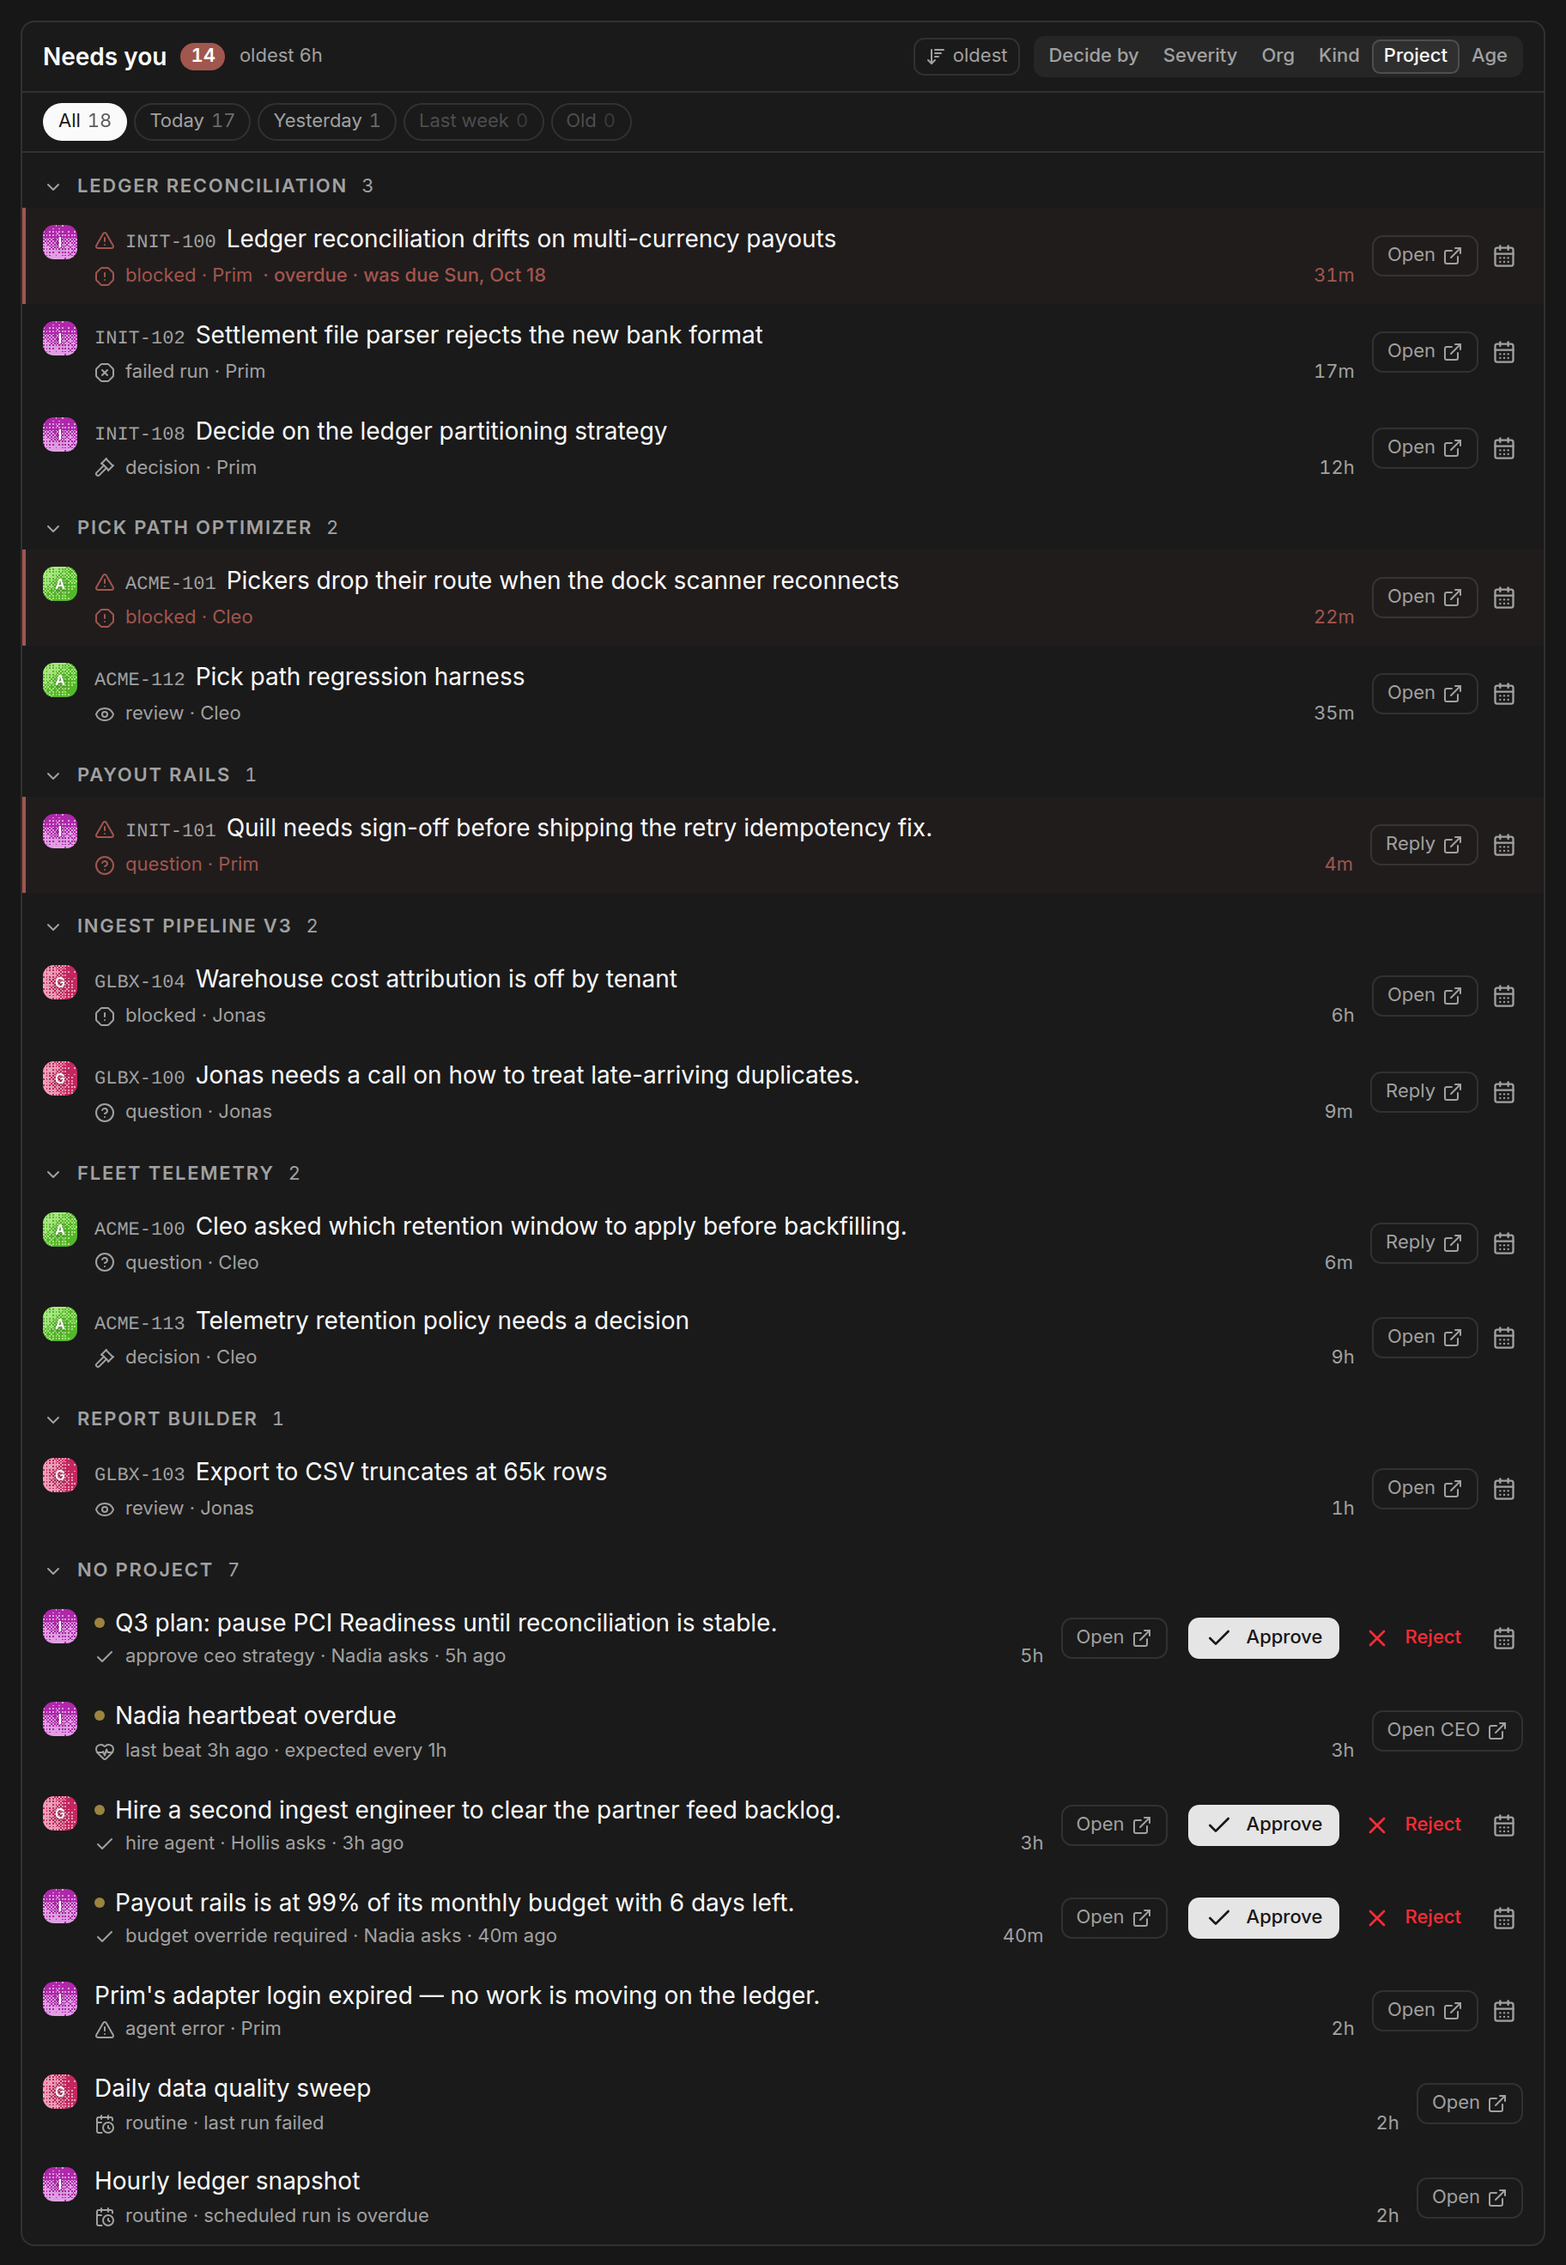
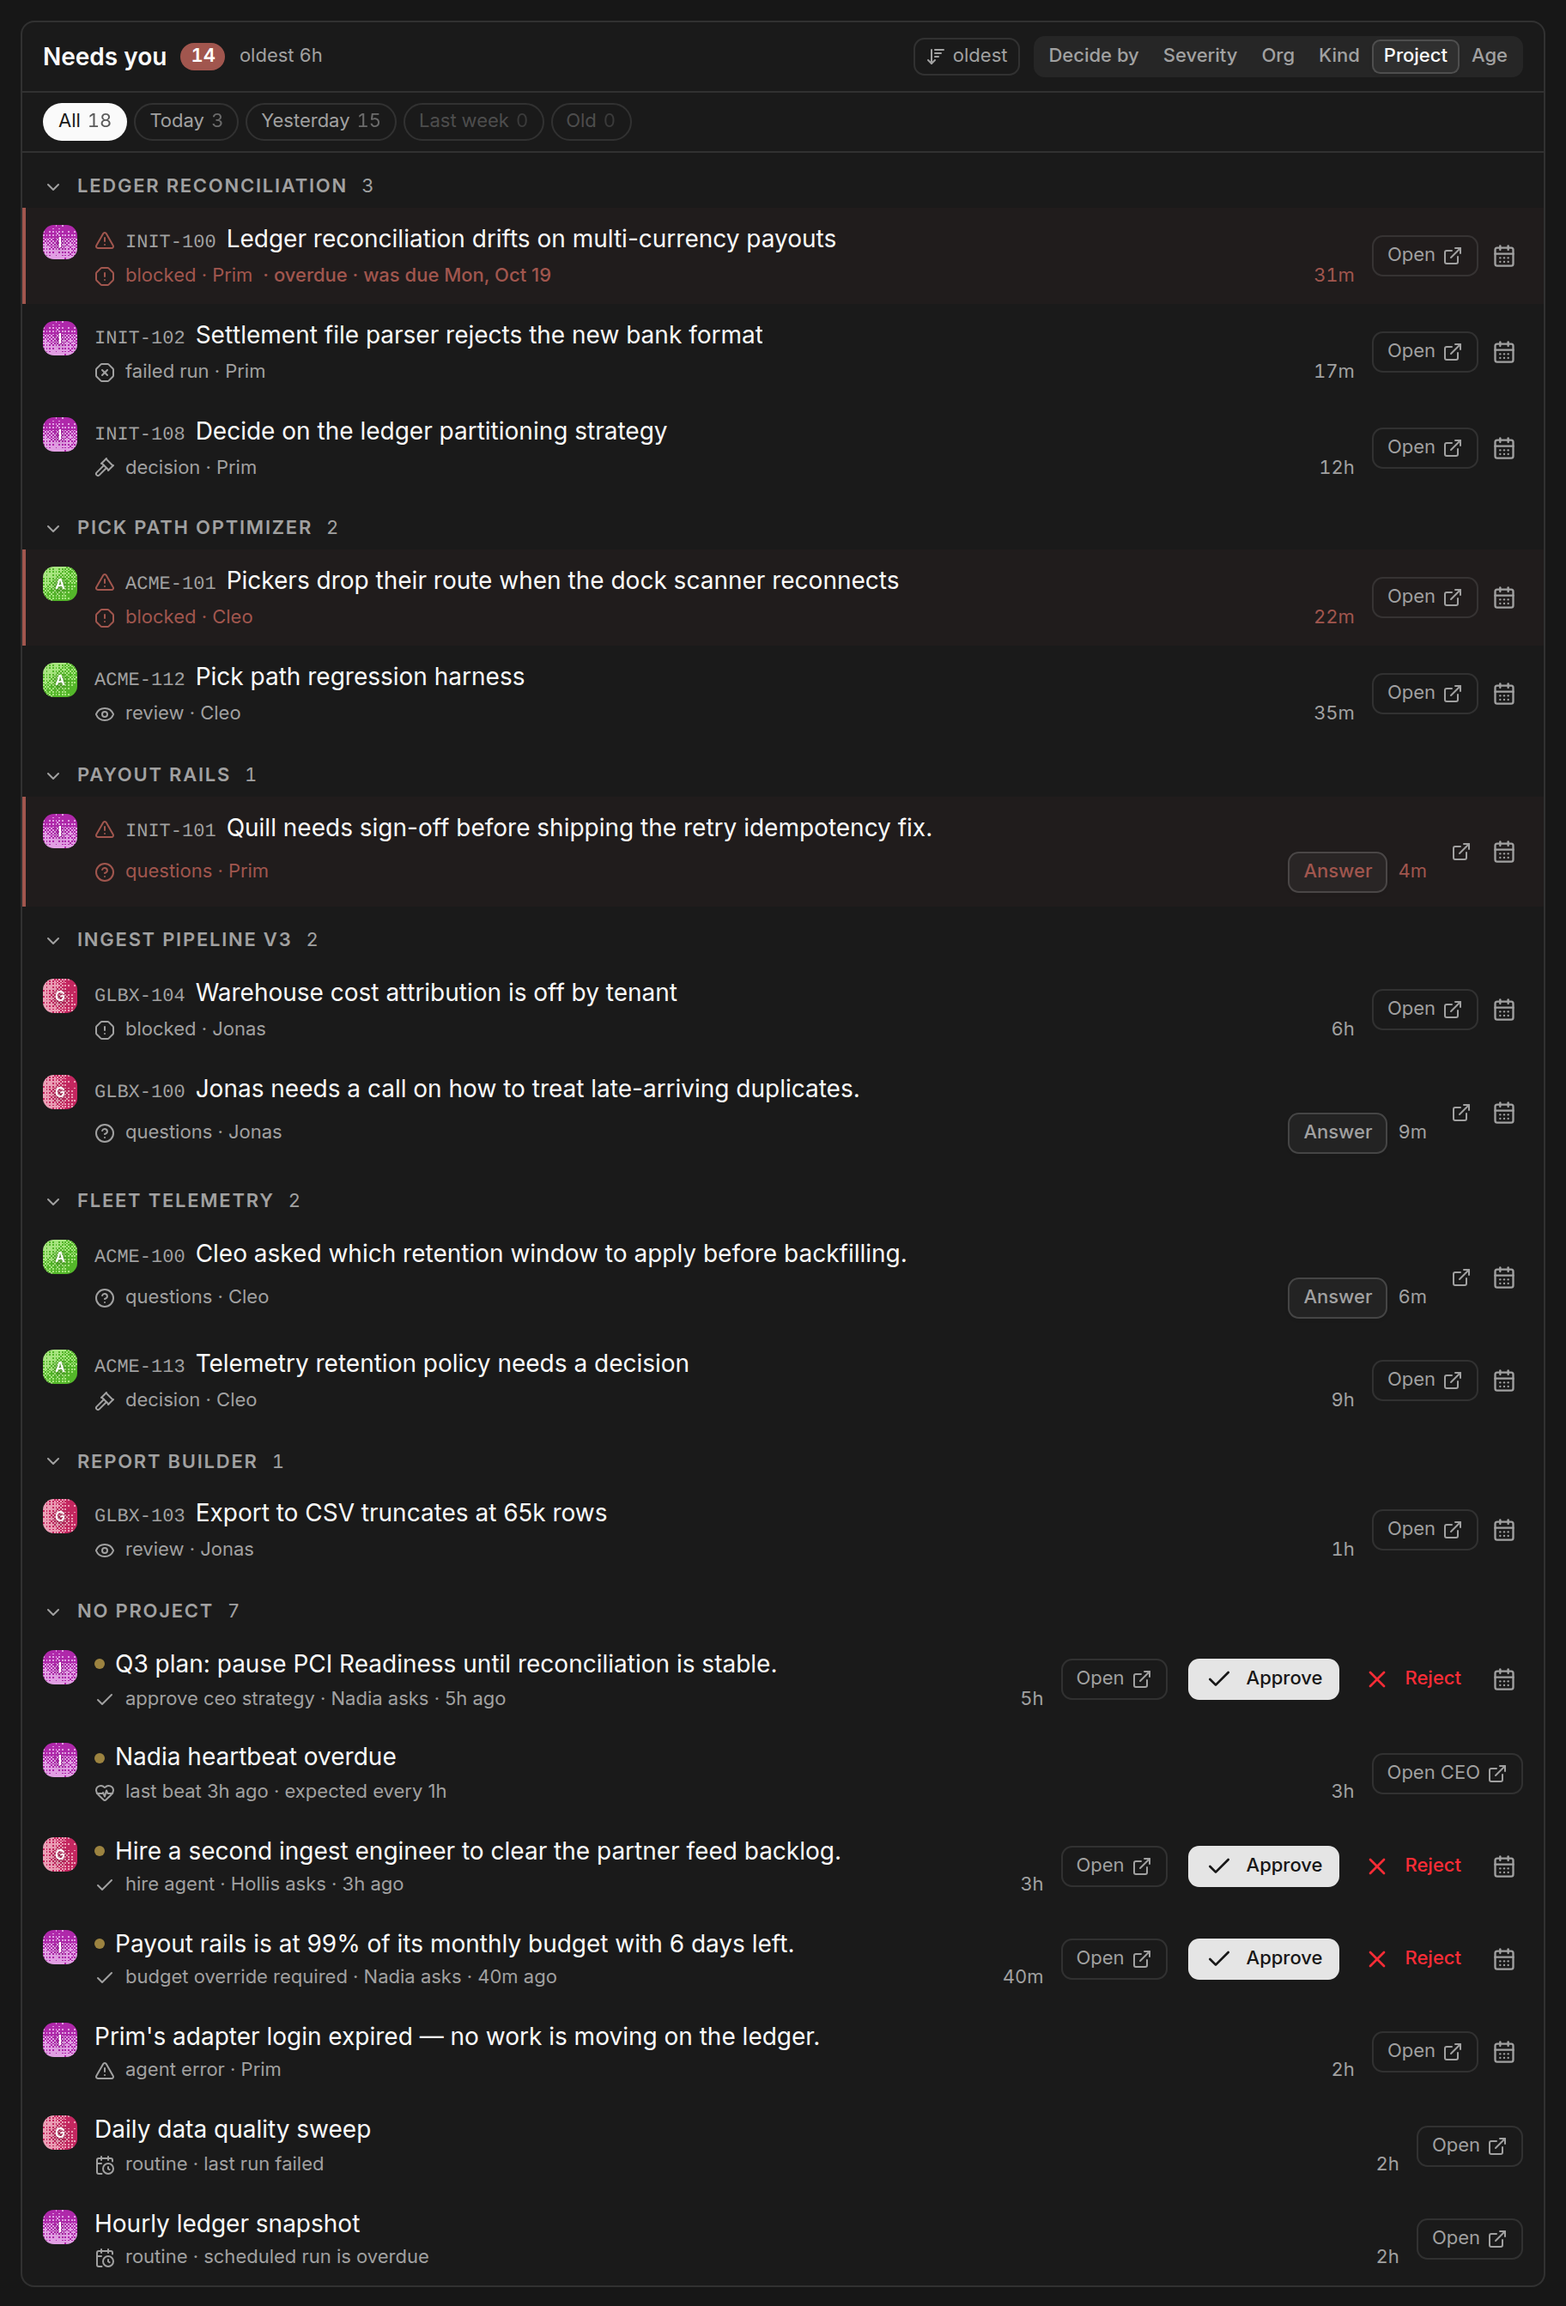
docs(screenshots): script queue-question from demo mode (PLI-318) (#97)
* docs(screenshots): script queue-question from demo mode (PLI-318)

The demo's question attention rows carried no subject.metadata.kind, so the
queue showed Reply ↗ and there was no Answer dialog to capture. Their
subject ids also used the attention index (globex-1, initech-3) rather than
the interaction's own id, so even with the kind set the dialog would have
read "no longer pending".

- gen-demo-data: interaction rows get kind ask_user_questions and the id
  buildInteractions gives the card; Acme's card asks two questions so the
  "n of m" split shows. Fixture regenerated.
- demo-data.test: every interaction row resolves to a loadable card of the
  same kind.
- capture-screenshots: queue-question clicks Answer on Acme's row and crops
  to the dialog.
- queue-question.png regenerated in demo mode; off the Hand-captured list.

* docs(screenshots): reshoot #96's queue shots on the Answer fixture (PLI-318)

#96 regenerated these on the old fixture, where question rows showed
Reply ↗. On this branch's fixture they show Answer, so reshoot the ten
queue shots #96 touched from demo mode.

---------

diff --git a/src/ui/demo/demo-data.test.ts b/src/ui/demo/demo-data.test.ts
@@ -79,6 +79,22 @@ describe("demo fixture integrity", () => {
     }
   });
 
+  it("points every interaction row at a card the dialog can load", () => {
+    // The queue offers an inline Answer only when the row carries the kind, and
+    // the dialog matches on the subject id — a mismatch reads as "no longer
+    // pending" in the demo, and the queue-question screenshot has nothing to show.
+    const rows = Object.values(FIXTURE.byCompany).flatMap((data) =>
+      data.attention.items.filter((item) => item.sourceKind === "issue_thread_interaction"),
+    );
+    expect(rows.length).toBeGreaterThan(0);
+    for (const row of rows) {
+      const issueId = row.subject.metadata?.issueId as string;
+      const card = FIXTURE.interactionsByIssue[issueId]?.find((entry) => entry.id === row.subject.id);
+      expect(card, row.id).toBeDefined();
+      expect(row.subject.metadata?.kind).toBe(card?.kind);
+    }
+  });
+
   it("dates every row with a relative token, so it never reads as stale", () => {
     // A literal ISO timestamp anywhere means someone hand-edited the JSON and
     // the fixture will age. Tokens are resolved at load; see demo-time.ts.

diff --git a/docs/screenshots/README.md b/docs/screenshots/README.md
@@ -156,9 +156,10 @@ them by hand when the UI they show changes.
 | File | Source |
 | --- | --- |
 | `queue-confirmation.png` | Tickler's own development org (live) |
-| `queue-question.png` | Tickler's own development org (live) |
 
 The README's own images — `hero`, `needs-you`, `left-rail`, `recent-hover` —
-and `portfolio-by-org` were on this list until PLI-288 and are scripted now.
+and `portfolio-by-org` were on this list until PLI-288 and are scripted now;
+`queue-question` followed in PLI-318, once the demo's question rows carried the
+kind that gives them an inline **Answer**.
 `hero` and `left-rail` are shot at a 1600 × 1150 window rather than the tall
 documentation viewport, so the rail shows what it budgets to a real screen.

diff --git a/CHANGELOG.md b/CHANGELOG.md
@@ -5,6 +5,10 @@ Short-form. The reader-facing write-up for each version is in
 
 ## Unreleased
 
+- **Demo mode answers its questions inline.** The demo's question rows showed
+  **Reply ↗**, a link out to a thread the demo does not have; they now show
+  **Answer**, and its dialog loads the question card. The Acme card asks two questions, so the "1 of 2" split is
+  on show. (PLI-318)
 - **The docs catch up with 0.18.0–0.19.1.** The README now mentions hiding an
   org and that paused orgs are left out; the queue guide covers approval rows
   titled by their task and the new question cards; and the queue, org-card and

diff --git a/docs/queue.md b/docs/queue.md
@@ -117,7 +117,7 @@ company:
 
 ![A confirmation with its two choices on the row](screenshots/queue-confirmation.png)
 
-<img src="screenshots/queue-question.png" alt="An agent's multiple-choice question, answered in place with an optional note" width="400">
+<img src="screenshots/queue-question.png" alt="An agent's two questions, answered in place: each option a full-width row, the questions numbered 1 of 2 and 2 of 2, and Add a note below" width="400">
 
 - **Approve / Reject** on an approval. The row is titled by the task the
   approval belongs to (or the request's own words, or "Hire <name>"), with the
